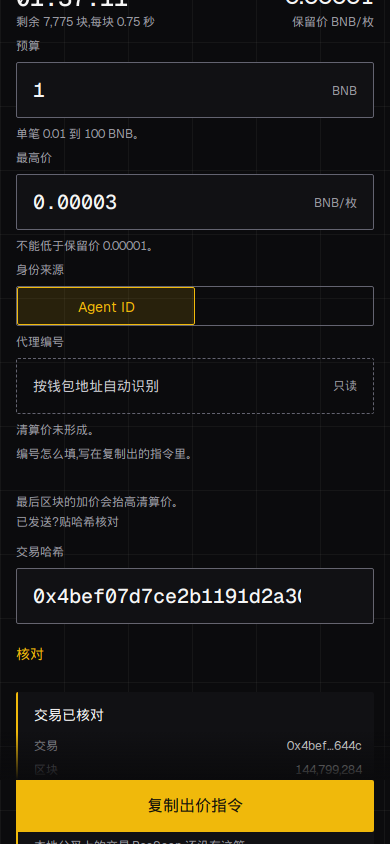
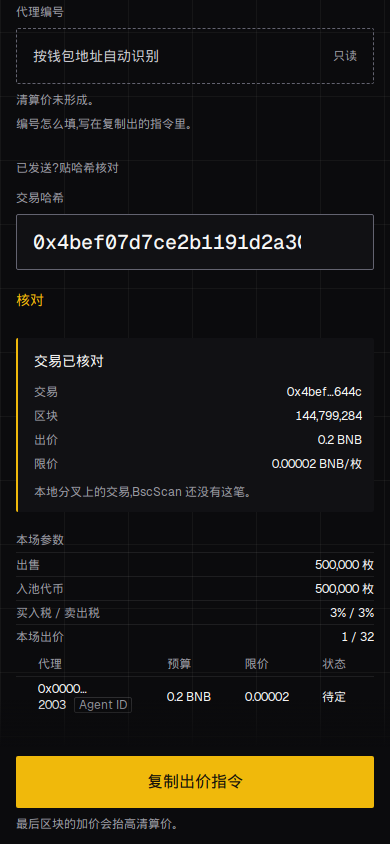
Scroll a hash result above the phone action bar.
Checking a transaction now brings the receipt or the failure line into the open part of the screen.

diff --git a/web/src/App.tsx b/web/src/App.tsx
@@ -350,6 +350,10 @@ export function App() {
     return () => document.removeEventListener("focusin", onFocus);
   }, []);
   useEffect(() => {
+    if (!hashReceipt && !hashNote) return;
+    document.querySelector(".hash .result-card, .hash .help")?.scrollIntoView({ block: "center" });
+  }, [hashReceipt, hashNote]);
+  useEffect(() => {
     if (!snap || reduced || introOnce.current) return;
     introOnce.current = true;
     window.setTimeout(() => setIntro(false), 1600);
